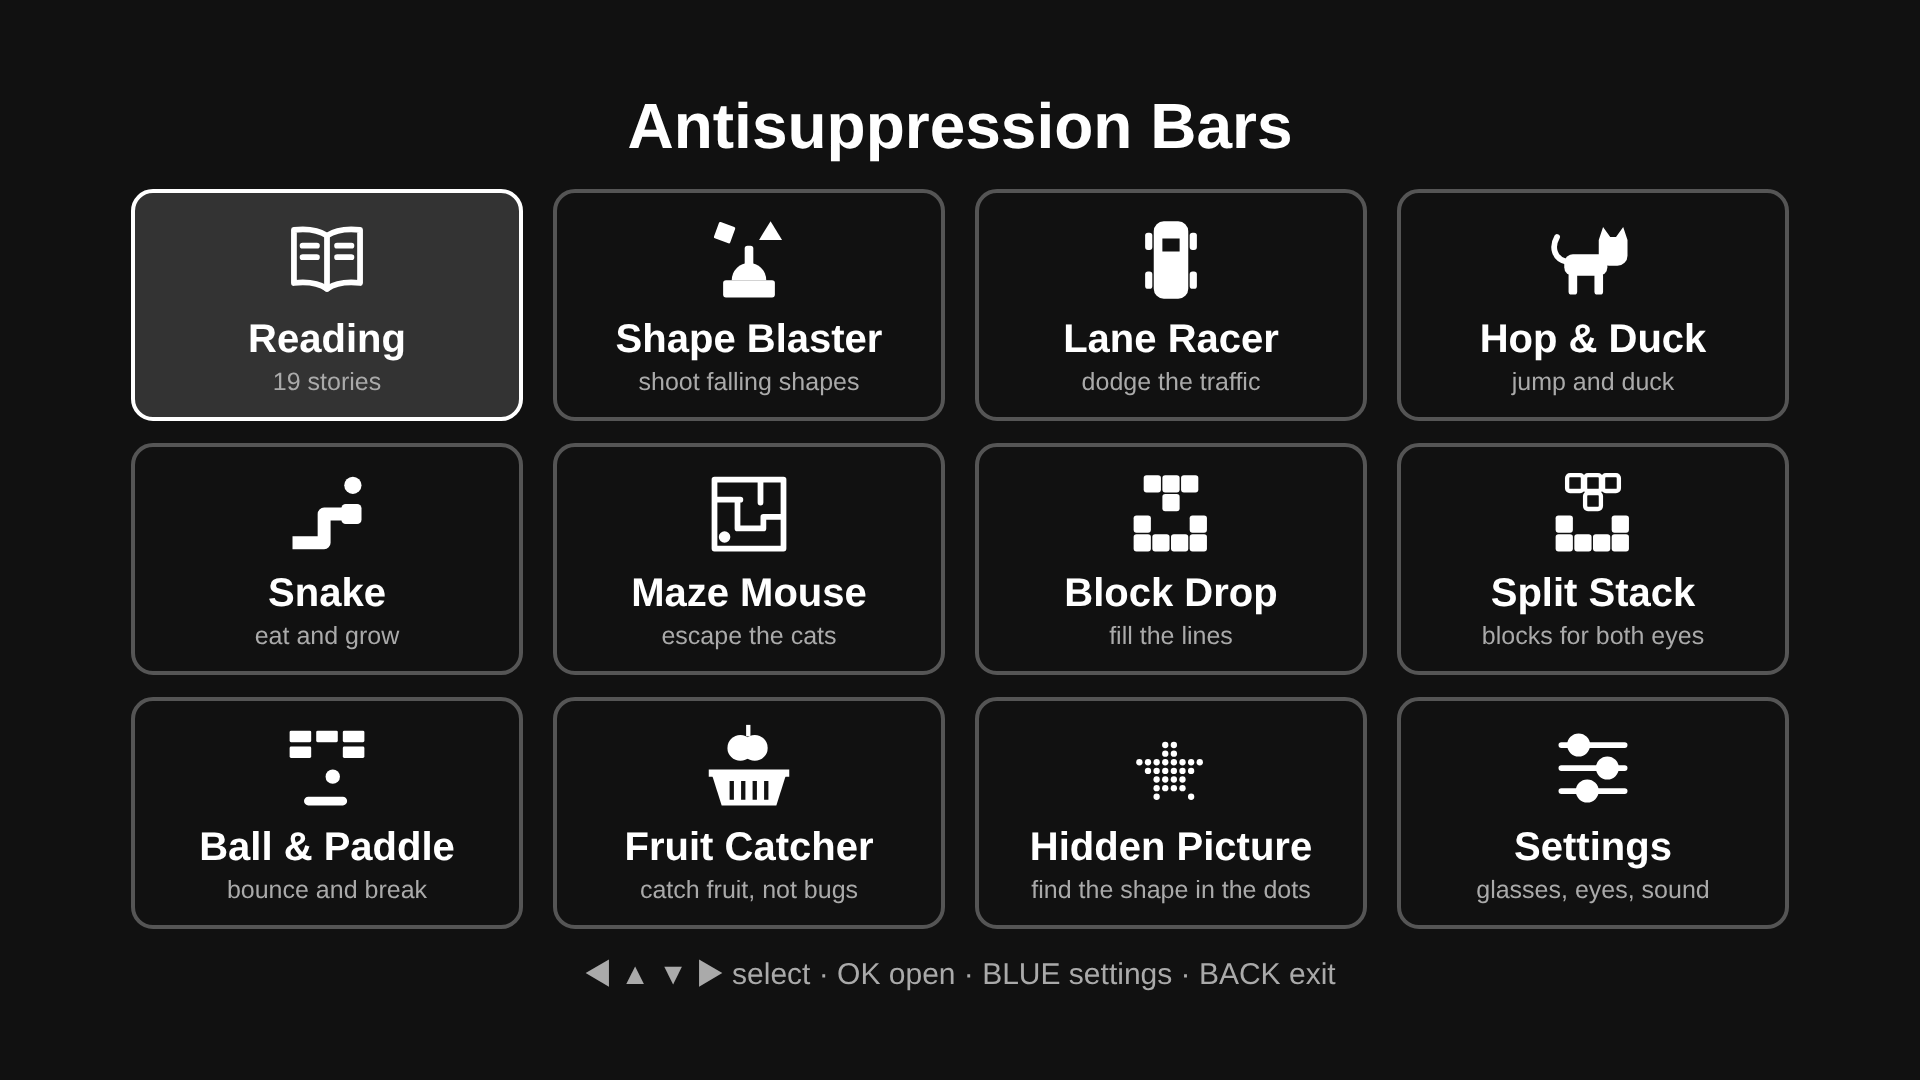
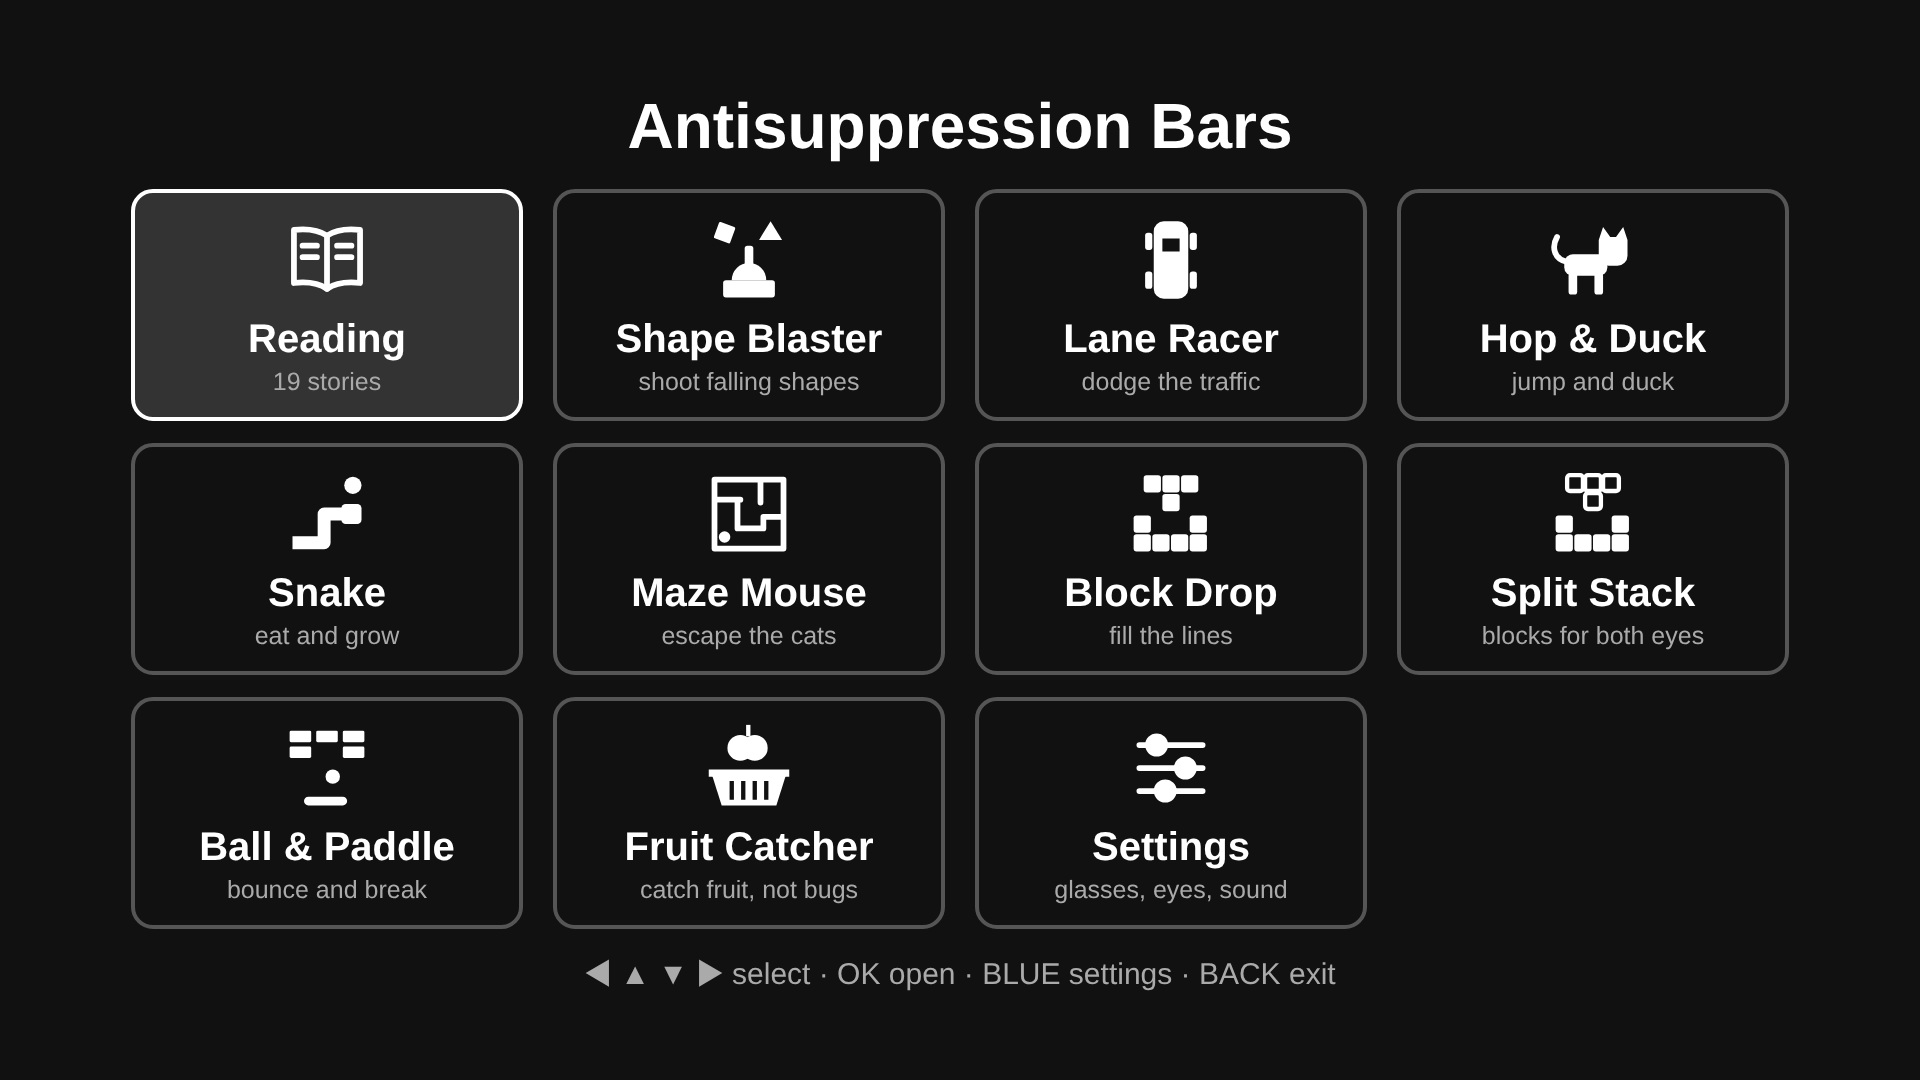
Remove Hidden Picture; note that two-eye games use the Settings colours
Game, menu tile, music theme, screenshot and docs removed. Docs now state
that the two-eye games draw with the Red / Green (or Blue) colours from
Settings, chosen per eye by Weaker eye and dimmed by Strong-eye contrast.

Claude-Session: https://claude.ai/code/session_019DAwnqKTqvFo8n4B8RvvjZ

Changed region(s): [[0.7188, 0.6417, 0.9375, 0.8861], [0.5312, 0.6722, 0.6875, 0.8556]]

diff --git a/js/menu-art.js b/js/menu-art.js
@@ -3,21 +3,6 @@
  * Icons are simple line/solid drawings in the current text colour.
  */
 var MENU_ART = (function () {
-  // Hidden Picture icon: a star made of dots
-  function dotStar() {
-    var pts = [], out = '';
-    for (var i = 0; i < 10; i++) { var a = -Math.PI / 2 + i * Math.PI / 5, r = i % 2 ? 12 : 29; pts.push([32 + Math.cos(a) * r, 34 + Math.sin(a) * r]); }
-    function inside(x, y) {
-      var c = false;
-      for (var i = 0, j = pts.length - 1; i < pts.length; j = i++) {
-        if ((pts[i][1] > y) !== (pts[j][1] > y) && x < (pts[j][0] - pts[i][0]) * (y - pts[i][1]) / (pts[j][1] - pts[i][1]) + pts[i][0]) c = !c;
-      }
-      return c;
-    }
-    for (var y = 4; y < 64; y += 6) for (var x = 4; x < 64; x += 6) if (inside(x, y)) out += '<circle cx="' + x + '" cy="' + y + '" r="2.2"/>';
-    return out;
-  }
-
   function svg(body, extra) {
     return '<svg viewBox="0 0 64 64" aria-hidden="true" ' + (extra || 'fill="currentColor"') + '>' + body + '</svg>';
   }
@@ -87,10 +72,6 @@ var MENU_ART = (function () {
       icon: svg('<circle cx="26" cy="18" r="9"/><circle cx="36" cy="18" r="9"/><rect x="30" y="2" width="3" height="8"/>' +
         '<path d="M6 36h52l-7 22H13z"/><path d="M4 33h56v5H4z"/>' +
         '<path d="M20 41v13M28 41v13M36 41v13M44 41v13" stroke="#111" stroke-width="3"/>')
-    },
-    picture: {
-      tag: 'find the shape in the dots',
-      icon: svg(dotStar())
     },
     settings: {
       tag: 'glasses, eyes, sound',

diff --git a/js/sound.js b/js/sound.js
@@ -78,12 +78,6 @@ var Sound = (function () {
       patterns: [[0, -1, 2, 1, 3, -1, 2, 1], [0, 2, -1, 4, 3, -1, 1, 2]],
       arp: [12, 'sine', 0.085, 0.9], bass: ['bounce', 'triangle', 0.10], pad: 0.02, echo: 0.15, filter: 2800
     },
-    // Hidden Picture: calm and slow, for looking carefully (F major)
-    picture: {
-      bpm: 76, chords: [[53, 57, 60], [50, 53, 57], [55, 58, 62], [48, 52, 55]],
-      patterns: [[0, -1, 2, -1, 3, -1, 4, -1], [0, -1, 3, -1, 2, -1, 1, -1]],
-      arp: [12, 'sine', 0.075, 2.6], bass: ['half', 'sine', 0.10], pad: 0.04, echo: 0.3, filter: 1900
-    },
     // Maze Mouse: light "tiptoe" feel, staccato notes over a walking bass (G minor)
     maze: {
       bpm: 96, chords: [[55, 58, 62], [51, 55, 58], [48, 51, 55], [50, 54, 57]],

diff --git a/js/app.js b/js/app.js
@@ -32,7 +32,7 @@
 
   var isTouch = window.matchMedia && window.matchMedia('(pointer: coarse)').matches;
 
-  var GAMES = [Blaster, Racer, Runner, Snake, Maze, Blocks, SplitStack, Paddle, Fruit, Picture];
+  var GAMES = [Blaster, Racer, Runner, Snake, Maze, Blocks, SplitStack, Paddle, Fruit];
   var MENU = [
     { label: 'Reading', icon: MENU_ART.reading.icon, sub: STORIES.length + ' stories', action: function () { openLibrary(); } }
   ].concat(GAMES.map(function (g) {

diff --git a/play.html b/play.html
@@ -89,7 +89,6 @@
   <script src="js/games/blocks.js"></script>
   <script src="js/games/paddle.js"></script>
   <script src="js/games/fruit.js"></script>
-  <script src="js/games/picture.js"></script>
   <script src="js/menu-art.js"></script>
   <script src="js/calibrate.js"></script>
   <script src="js/library.js"></script>

diff --git a/index.md b/index.md
@@ -15,7 +15,7 @@ ophthalmologist. It is not a medical device and does not diagnose or treat any c
 <a href="{{ site.play_url | relative_url }}"><strong>▶ Play in your browser</strong></a>. Works on
 computers, tablets and phones, with no sign-up or download.
 
-![The home menu: Reading, ten games and Settings]({{ '/screenshots/menu.png' | relative_url }})
+![The home menu: Reading, nine games and Settings]({{ '/screenshots/menu.png' | relative_url }})
 
 ## What's inside
 
@@ -61,10 +61,6 @@ computers, tablets and phones, with no sign-up or download.
     <figcaption><strong>Fruit Catcher</strong> (two-eye): catch the fruit, not the bugs</figcaption>
   </figure>
   <figure>
-    <img src="{{ '/screenshots/hidden-picture.png' | relative_url }}" alt="Hidden Picture: a triangle made of red and green dots, with three answers">
-    <figcaption><strong>Hidden Picture</strong> (two-eye): find the shape in the dots</figcaption>
-  </figure>
-  <figure>
     <img src="{{ '/screenshots/library.png' | relative_url }}" alt="Story list: 19 story tiles with drawings">
     <figcaption><strong>Story list</strong>: pick a story by its picture</figcaption>
   </figure>
@@ -85,9 +81,9 @@ computers, tablets and phones, with no sign-up or download.
 
 ## Two-eye games
 
-In **Split Stack**, **Ball & Paddle**, **Fruit Catcher** and **Hidden Picture** the bars are switched
-off. Instead, some parts of the game are drawn only in the weaker eye's colour and others only in
-the stronger eye's colour, so you can only play by using both eyes together. Set **Weaker eye** in
+In **Split Stack**, **Ball & Paddle** and **Fruit Catcher** the bars are switched off. Instead,
+some parts of the game are drawn only in the weaker eye's colour and others only in the stronger
+eye's colour (the Red and Green / Blue colours you set in Settings), so you can only play by using both eyes together. Set **Weaker eye** in
 Settings first. **Strong-eye contrast** dims the stronger eye's parts; ask your eye-care provider
 what level to start with.
 

diff --git a/README.md b/README.md
@@ -22,11 +22,10 @@ LG webOS TV app; it shares the same game and bar code.
 - **Snake** — eat food, grow longer, avoid the walls and your tail
 - **Maze Mouse** — eat every crumb while cats chase you; big cheese scares them
 - **Block Drop** — rotate the falling blocks to fill and clear complete lines
-- **Two-eye games** (no bars; each eye sees different parts, in its own colour):
+- **Two-eye games** (no bars; each eye sees different parts, in the Red / Green colours from Settings):
   - **Split Stack** — the falling block for the weaker eye, the stack for the stronger eye
   - **Ball & Paddle** — ball and bricks for the weaker eye, paddle for the stronger eye
   - **Fruit Catcher** — fruit and bugs for the weaker eye, basket for the stronger eye
-  - **Hidden Picture** — a shape hidden in dots split between the eyes; pick the right answer
 - **Settings** — glasses type (red/green or red/blue), vertical (default) or horizontal bars, bar width,
   strength, red / green / blue colours, weaker eye, strong-eye contrast, text size, music and
   sound effects on/off
@@ -92,5 +91,5 @@ js/library.js     story list
 js/sound.js       synthesized music and sound effects (Web Audio)
 js/menu-art.js    menu tile icons
 js/calibrate.js   colour test and picker
-js/games/         engine + ten games
+js/games/         engine + nine games
 ```
